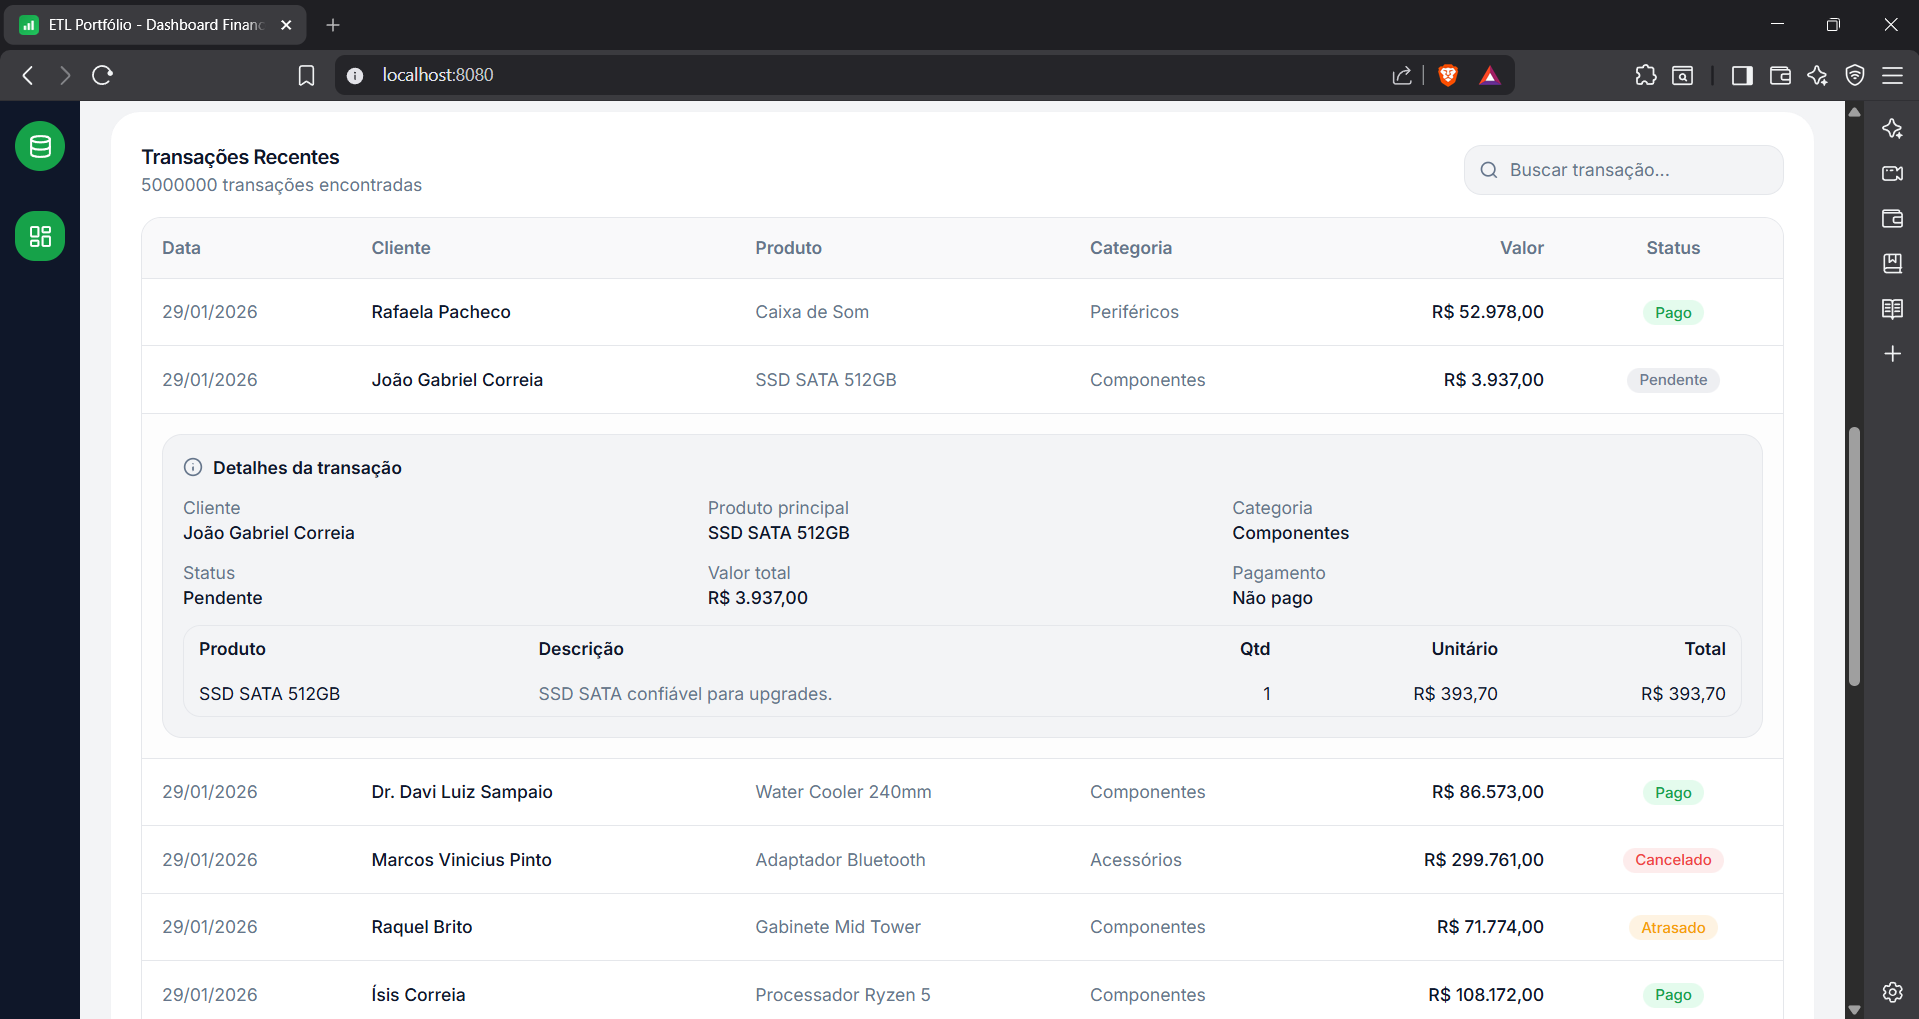
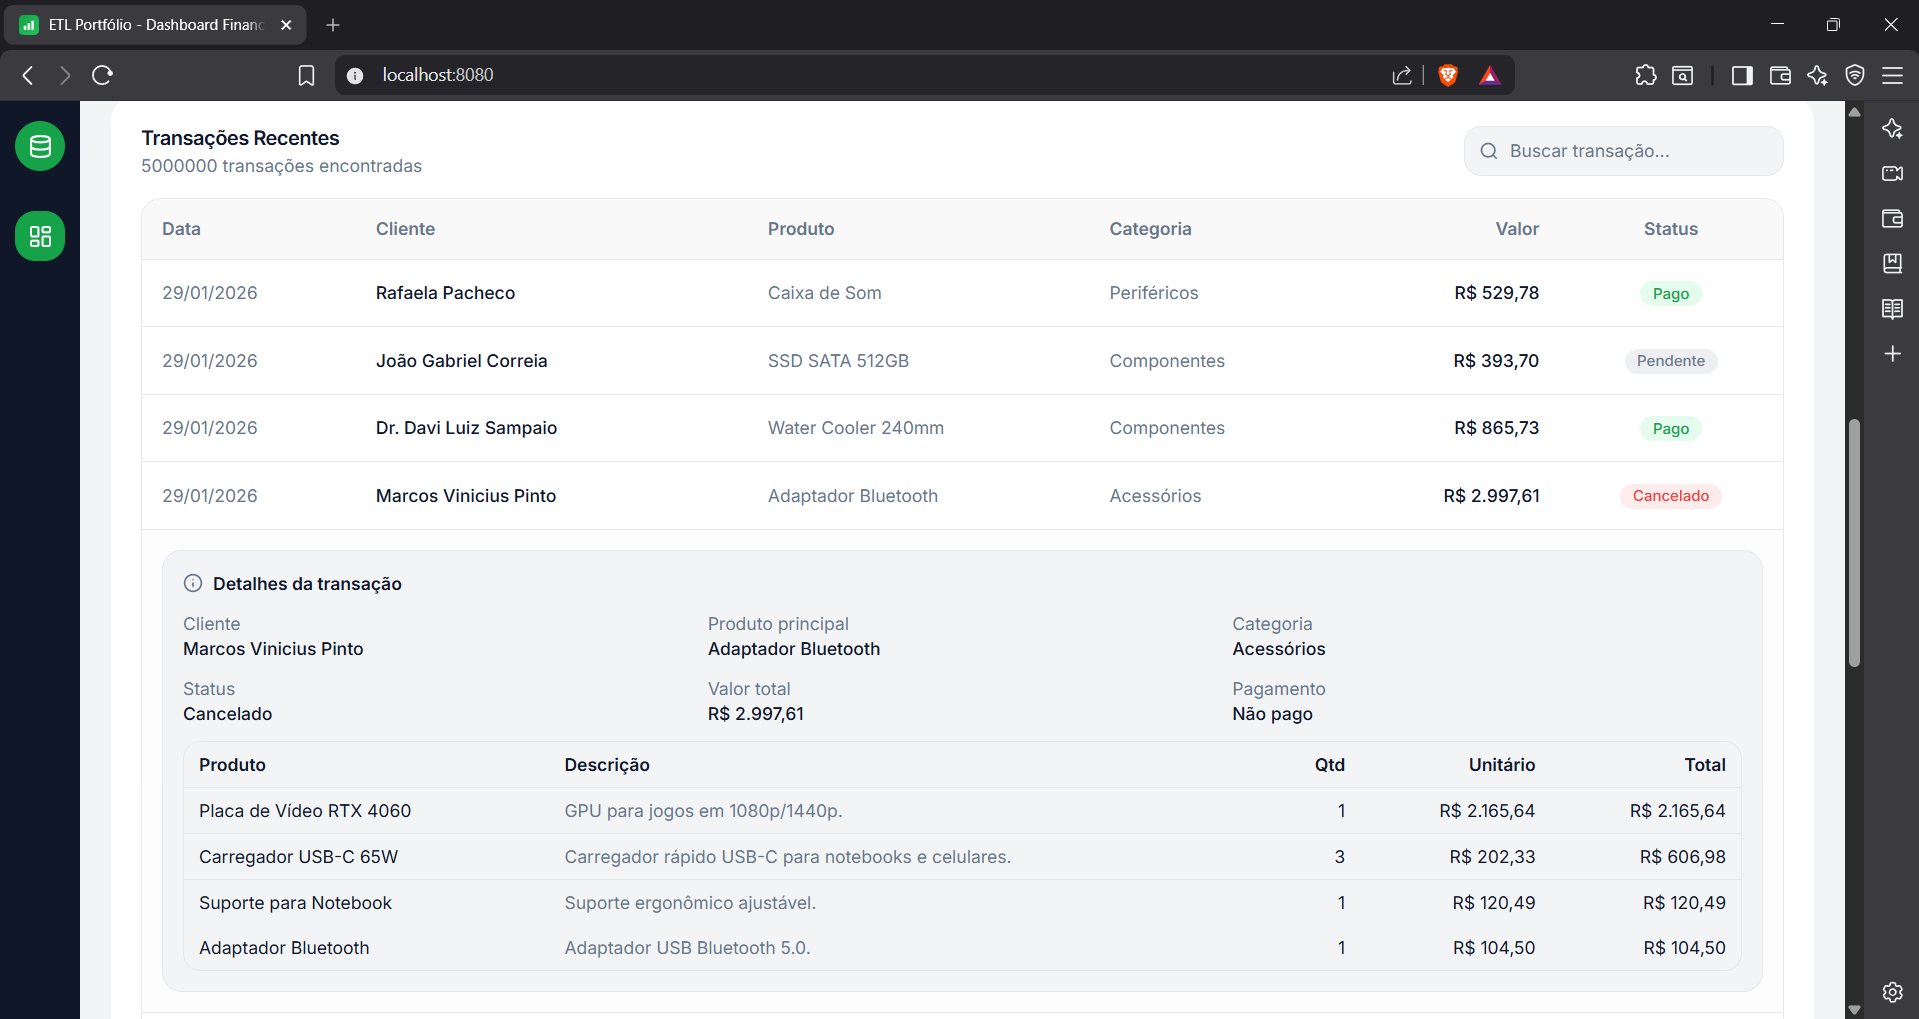
fix: totais e imagens do dashboard

diff --git a/dashboard/src/components/dashboard/TransacoesTable.tsx b/dashboard/src/components/dashboard/TransacoesTable.tsx
@@ -71,6 +71,11 @@ export function TransacoesTable({
 
   const detalhe = detalheQuery.data?.transacao;
   const itens = detalheQuery.data?.itens ?? [];
+  const totalItens = itens.reduce((acc, item) => {
+    const valor = typeof item.valor_total === "number" ? item.valor_total : 0;
+    return acc + valor;
+  }, 0);
+  const valorTotalDetalhe = totalItens > 0 ? totalItens : detalhe?.valor;
 
   return (
     <div className="dashboard-card">
@@ -195,7 +200,9 @@ export function TransacoesTable({
                                     </div>
                                     <div>
                                       <p className="text-muted-foreground">Valor total</p>
-                                      <p className="font-medium">{formatarMoeda(detalhe.valor)}</p>
+                                      <p className="font-medium">
+                                        {formatarMoeda(valorTotalDetalhe || 0)}
+                                      </p>
                                     </div>
                                     <div>
                                       <p className="text-muted-foreground">Pagamento</p>

diff --git a/scripts/transform.py b/scripts/transform.py
@@ -156,18 +156,47 @@ class DataTransformer:
                 format="mixed",
             )
 
-        # Converter valor para numérico
+        # Converter valor para num?rico
         if "valor" in df.columns:
-            # Tratar valores com formato brasileiro (1.234,56)
-            df["valor"] = (
+            # Suporta formatos brasileiros e internacionais:
+            # - "1.234,56" -> 1234.56
+            # - "1,234.56" -> 1234.56
+            # - "1234.56"  -> 1234.56
+            # - "1234,56"  -> 1234.56
+            valor = (
                 df["valor"]
                 .astype(str)
                 .str.replace("R$", "", regex=False)
                 .str.replace(" ", "", regex=False)
-                .str.replace(".", "", regex=False)
-                .str.replace(",", ".", regex=False)
+                .str.strip()
             )
-            df["valor"] = pd.to_numeric(df["valor"], errors="coerce")
+
+            mask_comma = valor.str.contains(",", na=False)
+            mask_dot = valor.str.contains(".", regex=False, na=False)
+            mask_both = mask_comma & mask_dot
+
+            if mask_both.any():
+                last_comma = valor.str.rfind(",")
+                last_dot = valor.str.rfind(".")
+                mask_comma_decimal = mask_both & (last_comma > last_dot)
+                mask_dot_decimal = mask_both & (last_dot > last_comma)
+
+                valor.loc[mask_comma_decimal] = (
+                    valor.loc[mask_comma_decimal]
+                    .str.replace(".", "", regex=False)
+                    .str.replace(",", ".", regex=False)
+                )
+                valor.loc[mask_dot_decimal] = valor.loc[mask_dot_decimal].str.replace(
+                    ",", "", regex=False
+                )
+
+            mask_only_comma = mask_comma & ~mask_dot
+            if mask_only_comma.any():
+                valor.loc[mask_only_comma] = valor.loc[mask_only_comma].str.replace(
+                    ",", ".", regex=False
+                )
+
+            df["valor"] = pd.to_numeric(valor, errors="coerce")
 
         # Converter id_transacao para string
         if "id_transacao" in df.columns:

diff --git a/scripts/reconcile_transacoes_valor.py b/scripts/reconcile_transacoes_valor.py
@@ -1,0 +1,42 @@
+"""
+Reconciliar valor total das transações com base nos itens.
+
+Atualiza transacoes.valor usando a soma de transacao_itens.valor_total.
+"""
+
+import sys
+from pathlib import Path
+
+from sqlalchemy import text
+
+# Adiciona o diretório raiz ao path para importar config
+sys.path.insert(0, str(Path(__file__).parent.parent))
+
+from scripts.models import get_engine
+
+
+def main() -> None:
+    engine = get_engine()
+    update_sql = """
+        UPDATE transacoes t
+        SET valor = s.valor_total
+        FROM (
+            SELECT
+                id_transacao,
+                ROUND(SUM(valor_total)::numeric, 2) AS valor_total
+            FROM transacao_itens
+            GROUP BY id_transacao
+        ) s
+        WHERE t.id_transacao = s.id_transacao
+          AND t.valor IS DISTINCT FROM s.valor_total
+    """
+
+    with engine.begin() as conn:
+        result = conn.execute(text(update_sql))
+        updated = result.rowcount
+
+    print(f"Transacoes atualizadas: {updated}")
+
+
+if __name__ == "__main__":
+    main()

diff --git a/README.md b/README.md
@@ -75,6 +75,6 @@ Se `VITE_USE_MOCK=true`, o dashboard usa o snapshot ou o gerador local.
 
 ## Documentação específica
 
-- ETL detalhado: `README_ETL.md`
-- Dashboard: `dashboard/README.md`
-- Power BI: `docs/powerbi_connection_guide.md`
+- ETL detalhado: [README_ETL.md](README_ETL.md)
+- Dashboard: [dashboard/README.md](dashboard/README.md)
+- Power BI: [docs/powerbi_connection_guide.md](docs/powerbi_connection_guide.md)
